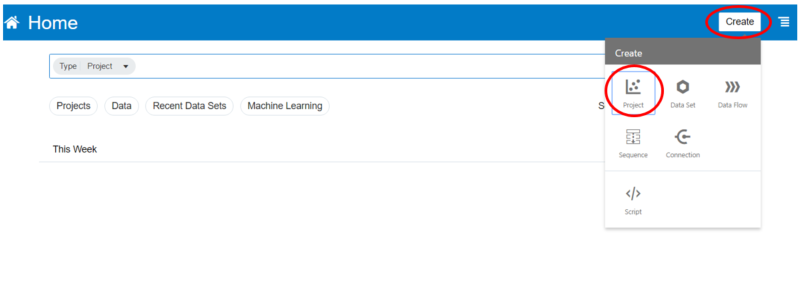
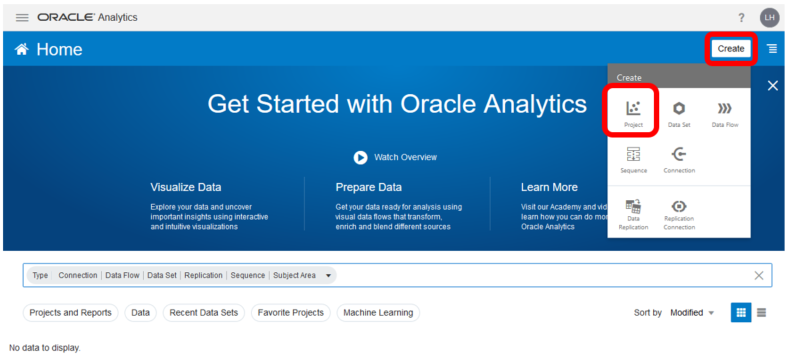
Changed OA Desktop to OAC

diff --git a/Lab2.md b/Lab2.md
@@ -6,16 +6,16 @@ In this part of the lab, we will create basic interactive canvases within a sing
 This lab is not intended to be an exhaustive view of all Oracle Analytics Cloud capabilities, but it wants to show how a Self Service Data Analysis can be made and therefore submit your data into three phases: prepare, visualize and narrate.
 
 You will create a basic interactive dashboard with 3 canvases that summarize:
-- Overview Dashboard
-- Energy Consumption by Location
+- Overview Dashboard.
+- Energy Consumption by Location.
 - Energy Consumption by type of housing.
 
-On the left corner select the _Create_ button and select _Project_
+On the left corner select the _**Create**_ button and select _**Project**_.
 <div style="text-align:center"><img src="./images/lab2_image1.png" /></div>
 
-Then select all the data sources previously uploaded while keeping pressed the ctrl button (or command on MAC) and select the button _Add to Project._
+Then select all the data sources previously uploaded while keeping pressed the ctrl button (or command on MAC) and select the button _**Add to Project**._
 
-Select on the pop-up windows all the Data Set created previously and then select the button _Add to Project._
+Select on the pop-up windows all the Data Set created previously and then select the button _**Add to Project**._
 
 <div style="text-align:center"><img src="./images/lab2_image2.png" /></div>
 
@@ -35,25 +35,26 @@ We will create the following canvas using different charts to answer these quest
 
 _Graph 1 – Annual Energy Consumption by year_
 
-On this blank canvas, it is possible to create visualizations by simply drag and drop. Under the table _**CONSUPTION_BY_STATE_YEAR**_ we can create our first visualization by holding down CTRL and multi-selecting _**YEAR**_ and _**ENERGY_CONS_YEARLY**_ attributes. Drag those 2 fields from the left navigation panel to the center blank canvas. A suggested plot is created automatically. From the chart icon at the top left change the chart type to a combo chart. 
+On this blank canvas, it is possible to create visualizations by simply drag and drop. 
+
+Under the table _**Consumption_By_State_Year**_ we can create our first visualization by _**holding down CTRL**_ and multi-selecting _**YEAR**_ and _**ENERGY_CONS_YEARLY**_ attributes. 
+
+Drag those 2 fields from the left navigation panel to the center blank canvas. A suggested plot is created automatically. From the chart icon at the top left change the chart type to a combo chart. 
 
 <div style="text-align:center"><img src="./images/lab2_image5.png" /></div>
 
-Furthermore, it is possible to add analytics tools as a trend, reference and forecast line for example. In our canvas, we will use a trend line. After selecting the analytics button by directly drag the trend line over the interested chart it will automatically generate the linear trend line.
+Furthermore, it is possible to add analytics tools as a trend, reference and forecast line for example. 
+In our canvas, we will use a trend line. After selecting the analytics button by directly drag the trend line over the interested chart it will automatically generate the linear trend line.
 
 <div style="text-align:center"><img src="./images/lab2_image6.png" /></div>
 
 - _Graph 2 – Total Energy consumption by Sector_
 
-Under the table ENERGY_CONSUMPTION_BY_SECTOR, holding down CTRL and multi-selecting 
-
-TOTAL_ENERGY_CONSUMED_BY_THE_COMMERCIAL_SECTOR, 
-
-TOTAL_ENERGY_CONSUMED_BY_THE_INDUSTRIAL_SECTOR, 
-
-TOTAL_ENERGY_CONSUMED_BY_THE_RESIDENTIAL_SECTOR,
-
-TOTAL_ENERGY_CONSUMED_BY_THE_TRANPORTATION_SECTOR.
+Under the table _**Energy_Consumption_by_Sector**_, holding down CTRL and multi-select the following attributes:
+- TOTAL_ENERGY_CONSUMED_BY_THE_COMMERCIAL_SECTOR
+- TOTAL_ENERGY_CONSUMED_BY_THE_INDUSTRIAL_SECTOR
+- TOTAL_ENERGY_CONSUMED_BY_THE_RESIDENTIAL_SECTOR
+- TOTAL_ENERGY_CONSUMED_BY_THE_TRANPORTATION_SECTOR
 
 and right-click on those 4 fields. Select as a chart type a donut chart. The result should be a canvas which contains both the graphs in the same window.
 
@@ -61,7 +62,7 @@ and right-click on those 4 fields. Select as a chart type a donut chart. The res
 
 - _Graph 3 – Energy Consumption in the USA_
 
-Under the table CONSUPTION_BY_STATE_YEAR, holding down CTRL and multi-selecting STATE and ENERGY_CONS_STATEWISE. Right-Click on these 2 fields and select _**Pick Visualization**_. From the chart icon at the top left change the chart type to a map chart. Here is showed the yearly total consumption for each state in the USA.
+Under the table _**Consumption_By_State_Year**_, holding down CTRL and multi-selecting _**STATE**_ and _**ENERGY_CONS_STATEWISE**_. Right-Click on these 2 fields and select _**Pick Visualization**_. From the chart icon at the top left change the chart type to a map chart. Here is showed the yearly total consumption for each state in the USA.
 
 <div style="text-align:center"><img src="./images/lab2_image8.png" /></div>
 

diff --git a/Lab1.md b/Lab1.md
@@ -1,28 +1,49 @@
-## Lab 1 – Create a Data Set by adding a Spreadsheet from your Computer
+## Lab 1 – Create a Data Sets by adding a Spreadsheets from your Computer
 You can create a data set from an Excel spreadsheet (XLSX or XLS), CSV file, or TXT file located on your computer. 
 
 _Note:_ You can't import an Excel spreadsheet that contains pivoted data. 
 
-Download the CSV files which contain all the required resources for this section at the following
+Download the following CSV files which contain all the required resources for this section at the following
 Links:
 
-1. [CONSUPTION_BY_STATE_YEAR](https://objectstorage.uk-london-1.oraclecloud.com/p/SD4mcFaQHDAp1rncfmDZyy0BtTZ6qU22jzyi2TcOGgo/n/odca/b/OAC_Workshop/o/Consumption_by_state_year.csv)
-2. [ENERGY_CONSUMPTION_BY_SECTOR](https://objectstorage.uk-london-1.oraclecloud.com/p/i-edAv1mlbLMlq_bcqZihRfNQSVZd8IEv6eUx_rrIvU/n/odca/b/OAC_Workshop/o/Energy_Consumption_by_Sector.csv)
-3. [ENERGY_EXPENDITURES_HOUSINGUNIT](https://objectstorage.uk-london-1.oraclecloud.com/p/edpQPXtfQFIrSwToWRoeWuLIFp-EgAdxas-AoWJzJwE/n/odca/b/OAC_Workshop/o/Energy_expenditures_HousingUnit.xlsx)
-4. [ENERGY_EXPENDITURE](https://objectstorage.uk-london-1.oraclecloud.com/p/76XcDppvDn3tSfZfdir8_7H9-qO4rKGBGLMyf0JGCvg/n/odca/b/OAC_Workshop/o/Energy_expenditures.xlsx)
+1. [Consumption_By_State_Year](https://objectstorage.uk-london-1.oraclecloud.com/p/SD4mcFaQHDAp1rncfmDZyy0BtTZ6qU22jzyi2TcOGgo/n/odca/b/OAC_Workshop/o/Consumption_by_state_year.csv)
+2. [Energy_Consumption_by_Sector](https://objectstorage.uk-london-1.oraclecloud.com/p/i-edAv1mlbLMlq_bcqZihRfNQSVZd8IEv6eUx_rrIvU/n/odca/b/OAC_Workshop/o/Energy_Consumption_by_Sector.csv)
 
 And now proceed uploading the following CSV files as a new Data Set on OAC.
 
-On the Home page, in the top-right of the screen click _Create_, and then click _Data Set_.
+On the Home page, in the top-right of the screen click _**Create**_, and then click _**Data Set**_.
 
-<div style="text-align:center"><img src="./images/lab1_image1.png" /></div>
+![](./images/lab1_image1.png)
 
-Click _Drop data file_ here or _click to browse_ to select an XLSX or XLS (with unpivoted data), CSV, or TXT file. And then click _Open_ to upload and open the selected spreadsheet.
+Click _**Drop data file here or click to browse**_ to select an XLSX or XLS (with unpivoted data), CSV, or TXT file. 
 
-<div style="text-align:center"><img src="./images/lab1_image2.png" /></div>
+![](./images/lab1_image2.png)
+
+
+Select a _**Consumption_By_State_Year**__ file and then click _**Open**_ to upload and open the selected spreadsheet.
+![](./images/lab1_image3.png)
+
 
 Make any required name, description, or column attribute changes.
 
-<div style="text-align:center"><img src="./images/lab1_image3.png" /></div>
+The _**Year**_ column must be changed from a measure to an attribute:
+1. Select the _**Year**_ column.
+2. Click the _**Treat As**_ button.
+3. Select _**Attribute**_.
 
-Click _Add_ to create the data set.
+![](./images/lab1_image4.png)
+
+The _**Energy Consumption Statewise(billion BTU)**_ column must be changed from an attribute to a meaure.
+1. Select the _**Energy Consumption Statewise(billion BTU)**_ column.
+2. Click the _**Treat As**_ button.
+3. Select _**Attribute**_.
+
+![](./images/lab1_image5.png)
+
+Click _**Add**_ to create the data set.
+![](./images/lab1_image6.png)
+
+Click _**<**_ icon in the  top-left corner.
+![](./images/lab1_image7.png)
+
+Repeat this process to create the _**Energy_Consumption_by_Sector**_ data set. Make sure to change the _**Year**_ column to an attribute.

diff --git a/Lab0.md b/Lab0.md
@@ -1,10 +1,22 @@
-Below you find the instructions for installing Oracle Analytics Desktop. Note that the labs can be executed using either Oracle Analytics Cloud or Oracle Analytics Desktop. So if you already have an OAC instance, feel free to use that instead.
-Note that apart from the Oracle Analytics Desktop installation, you also have to **install the open source Machine Learning packages**.
+# Lab 0 – Create an Oracle Analytics Cloud (OAC) instance
 
-# Lab0 - Install Oracle Analytics Desktop **and Machine Learning packages**
+Click the _**hamburger menu**_ in the upper left corner and click on _**Analytics -> Analytics Cloud**_.
+![](./images/lab0_image1.png)
 
-1. Download DVD by clicking [here](https://www.oracle.com/middleware/technologies/oracle-data-visualization-desktop.html#) and follow the instructions. 
-2. Install DVD locally on your computer. 
-3. The Machine Learning in DVD relies on open source packages that are -not- installed by default. To install these packages, go to the Windows Start menu, browse to Oracle (or type "install DVML") and click Install DVML. **You need a non-proxy connection to the internet for this to work.**
-4. The installer starts on completion of the download. Simply follow the instructions.
-5. If Oracle Analytics Desktop was running during the installation, then restart it for the changes to take effect.
+Click _**Create instance**_.
+![](./images/lab0_image2.png)
+
+Select a compartment and give the OAC instance a name.
+
+![](./images/lab0_image3.png)
+
+Click _**Create**_ to create the OAC instance.
+![](./images/lab0_image4.png)
+
+It takes about _**15-20 minutes**_ to create the OAC instance.
+
+When the status of the instance changes to _Active_, click the _**menu icon**_ and then select _**Open URL**_ to open the OAC instance.
+![](./images/lab0_image5.png)
+
+Welcome to Oracle Analytics Cloud.
+![](./images/lab0_image6.png)

diff --git a/README.md b/README.md
@@ -1,7 +1,7 @@
-## Energy Workshop Lab - Building an analysis with Oracle Analytics Cloud
+## Building an analysis with Oracle Analytics Cloud
 
 **Key Objectives:**
-- Install Oracle Analytics Desktop
+- Create an Oracle Analytics Cloud instance
 - Create a Data Set by adding a Spreadsheet from your Computer
 - How to create a simple data visualization project with Oracle Analytics Cloud
 - Machine Learning
@@ -21,7 +21,8 @@ Key Features of Oracle Analytics Cloud are:
 - **Collaboration and Publishing**, to take full advantage of your data, you need to easily share results with anyone, and collaborate smartly across teams to refine analytics content. Harness everyone’s collective wisdom to drive insights that lead to quick action and the best possible outcomes. 
 - **Predictive Analytics**, you need simple, one-click actions along with powerful machine learning (ML) models to predict results and better understand your data. To help you deploy sophisticated analytics to everyone in your organization, Oracle Analytics is focused on embedding, consuming, and training ML models to enrich your data preparation, discovery, and collaboration.
 
-## Lab 0 – Lab0 - Install Oracle Analytics Desktop and Machine Learning packages
+## Lab 0 – Create an Oracle Analytics Cloud (OAC) instance
+
 
 **[Click here to run Lab 0](./Lab0.md)**
 
